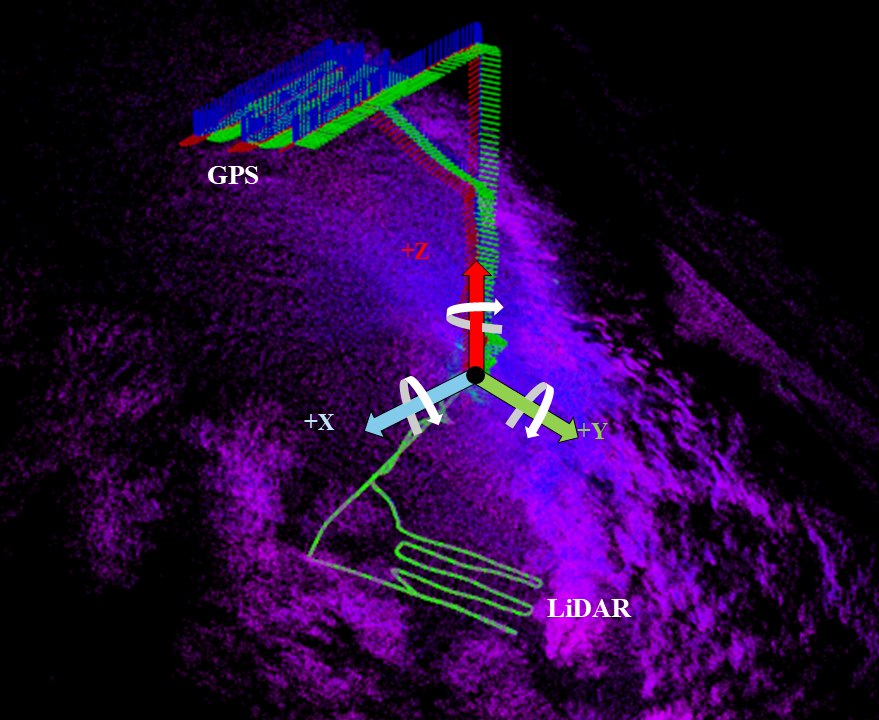
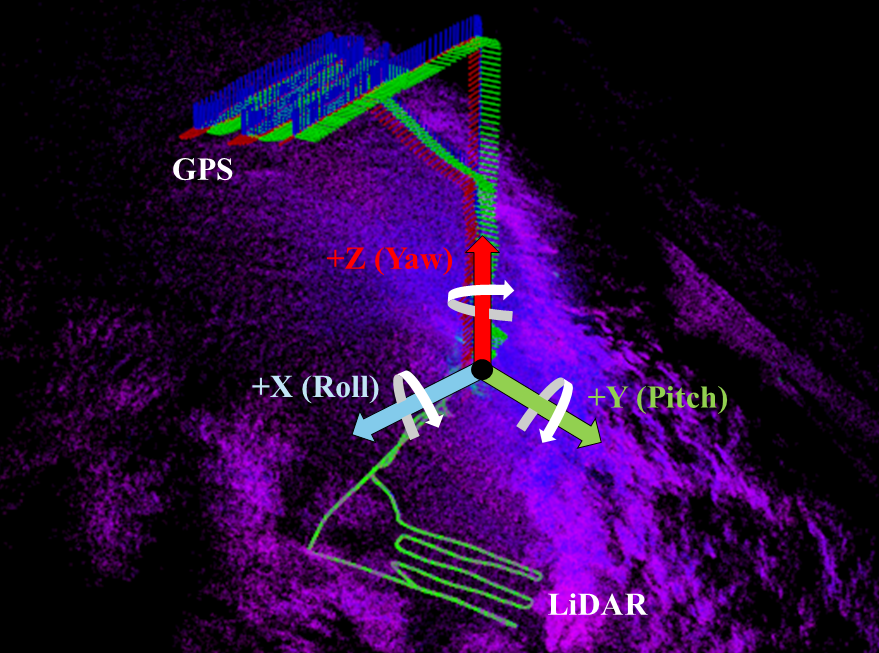
complete frame transformation

diff --git a/Final_Report.tex b/Final_Report.tex
@@ -1066,12 +1066,9 @@ methods above.
 In recent years, autonomous robots have been widely implemented to carry out
 repetitive tasks or take part in site surveys to ensure human safety or even
 reduce operational cost. To carry out remote sensing via UAV, mapping is
-essential to allow robots to create a spatial understanding of the site in order
-to create efficient flight paths as well as avoid obstacles. 
+essential for generating accurate three-dimensional representations of the environment. For tree canopy monitoring, 3D point cloud mapping provides additional spatial reference information by capturing canopy structure, height, and surface geometry, thereby complementing conventional remote sensing observations.
 
-The common way for remote sensing robots to carry out mapping is by using
-sensors such as camera or LiDAR to create an odometry. This allows the robots to
-estimate their position and movement over time by measuring the changes in each
+The common way to carry out mapping is by using sensors such as camera or LiDAR to create an odometry. This allows the robots to estimate their position and movement over time by measuring the changes in each
 frame of the sensors. In practice, the common approaches to frame-to-frame
 odometry are visual odometry or LiDAR odometry. Visual odometry estimates motion
 by tracking distinct features in each image frame through gradients and textures
@@ -1452,15 +1449,38 @@ To effectively perform frame transformation between two sensors, it is first nec
 \begin{figure}[H]
     \centering
     \includegraphics[width=0.7\textwidth]{Included_Images/SLAM_axis.png}
-    \caption{Illustration of the direction of principal axis within the SLAM system}
+    \caption{Illustration of the direction of principal axis within SLAM system}
     \label{fig:SLAM_axis}
 \end{figure}
 
-Meanwhile, as GPS only provide translational data such as longitude, latitude, and altitude, additional IMU which is located at the same position as the GPS antenna, is used to provide the rotational information for GPS measurement, creating a complete 6-DoF pose representation required for accurate frame transformation. Based on that, extrinsic calibration is carried out between the GPS/IMU system and LiDAR/IMU to obtain the relative rotation between two sensor frames. The calibration results indicate that there is a rotational offset of $145.98^\circ$ about the X-axis, $90.0^\circ$ about the Z-axis, and no rotational offset about the Y-axis between the GPS and LiDAR frames. 
+Meanwhile, as GPS only provide translational data such as longitude, latitude, and altitude, additional IMU which is located at the same position as the GPS antenna, is used to provide the rotational information for GPS measurement, creating a complete 6-DoF pose representation required for accurate frame transformation. Based on that, extrinsic calibration is carried out between the GPS/IMU and LiDAR/IMU systems to obtain the relative rotation between two sensor frames \cite{lidar_imu_init}. The calibration results indicate that there is a rotational offset of $145.98^\circ$ in roll, $90.0^\circ$ in yaw, and no rotational offset in pitch between the GPS and LiDAR frames. 
 
 In an effort to implement the calibration results into the SLAM framework, the absolute initial heading of the LiDAR must be determined at the start of the system. This is because the LiDAR odometry defines its origin as $0^\circ$ based on the initial orientation of the UAV. Conversely, the GPS/IMU system operates in a global reference frame which is aware of the heading of East, West, North, and South, resulting in the initial orientation of GPS/IMU generally being nonzero. This creates an unknown rotational offset between the LiDAR local frame and the global navigation frame.
 
-To bridge this gap, initial IMU's global orientation from the GPS is captured at system startup representing as a quaternion $Q_{imu_global}$. Even so, given that GPS/IMU is rigidly attached to the LiDAR sensor via a known extrinsic calibration, its orientation must be corrected by the previously determined fixed transformation between the IMU and LiDAR frames where the transformation is represented as $Q_{imu_to_lidar}$.
+To bridge this gap, initial IMU's global orientation from the GPS is captured at system startup and its represented as quaternion $Q_{imu\_global}$. Even so, given that GPS/IMU is rigidly attached to the LiDAR sensor via a known extrinsic calibration, its orientation must be corrected by the previously determined fixed transformation between the IMU and LiDAR frames where the transformation is represented as $Q_{imu\_to\_lidar}$. Thus, the absolute orientation of LiDAR with respect to global coordinate frame $Q_{lidar\_global}$ is therefore computed via quaternion multiplication chain:
+\begin{equation}
+Q_{lidar\_global} = Q_{imu\_global} \otimes Q_{imu\_to\_lidar}
+\end{equation}
+
+Once the absolute global orientation of the LiDAR is calculated, the system isolates the yaw heading component. Isolating the yaw is critical because pitch and roll are typically constrained by the IMU's gravity vector, meaning both the LiDAR/IMU and GPS/IMU systems have near-zero pitch and roll during initialization. This leaves the yaw heading as the primary unaligned degree of freedom between the local LiDAR frame and the global navigation frame.
+
+The extracted initial yaw offset is stored and combined with the calibrated roll offset to construct the transformation matrix between GPS and LiDAR frames. The complete rotational compensation is expressed as:
+\begin{equation}
+P_{lidar} = R_x(\theta_{roll})\,R_z(\theta_{yaw})\,P_{gps}
+\end{equation}
+where $R_x(\theta_{roll})$ is the fixed roll rotation of $145.98^\circ$ and $R_z(\theta_{yaw})$ is the initial yaw alignment between the global GPS frame and the local LiDAR frame. This transformation matrix is then applied to every incoming GPS measurement before it is introduced into the pose graph. As a result, all GPS positions are converted into the LiDAR local coordinate frame, allowing GPS factors to be consistently fused with LiDAR odometry during pose graph optimization.
+
+\begin{figure}[H]
+    \centering
+    \includegraphics[width=0.8\textwidth]{Included_Images/frame_trans.png}
+    \caption{Illustration of the frame transformation from GPS to LiDAR}
+\end{figure}
+
+\begin{figure}[H]
+    \centering
+    \includegraphics[width=1.0\textwidth]{Included_Images/transformation_result.png}
+    \caption{Comparison of SLAM system before and after frame transformation}
+\end{figure}
 
 
 \subsubsection{System Architecture}
